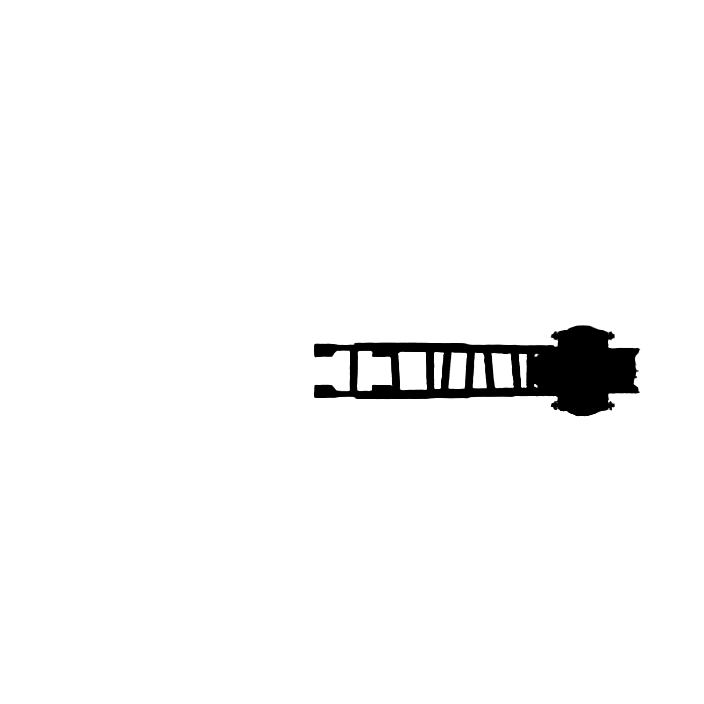
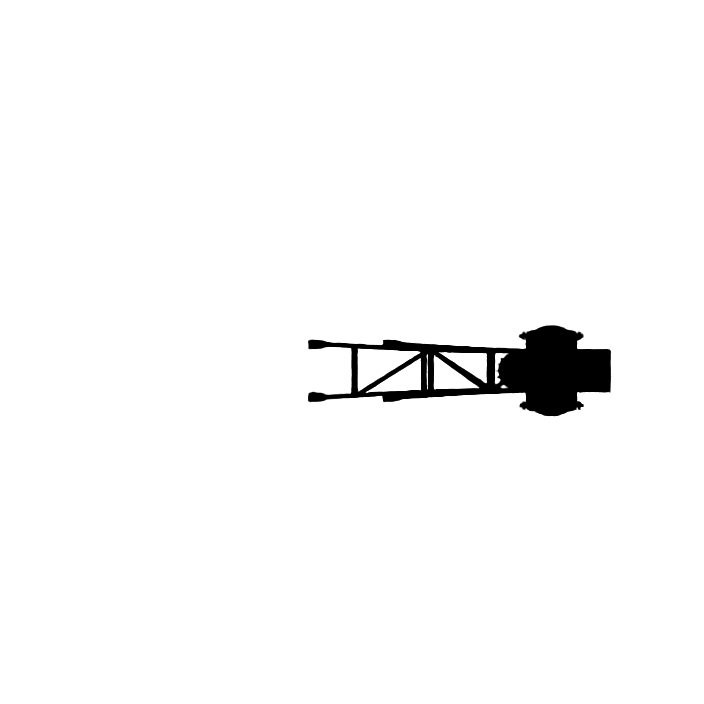
Import new batch

Changed region(s): [[0.4375, 0.4375, 0.9062, 0.5938]]

diff --git a/mods_2.0/089_pipe-pillars/import_render.php b/mods_2.0/089_pipe-pillars/import_render.php
@@ -9,10 +9,10 @@ $Shadow = "{$Render}/Shadow";
 $pipe_pillar = __DIR__ . '/graphics/entity/pipe-pillar';
 
 $mapping = [
-  '0000' => 'pipe-pillar',
-  '0001' => 'pipe-pillar-pipe-connection',
-  '0002' => 'pipe-pillar-bottom-pipe-left',
-  '0003' => 'pipe-pillar-bottom-pipe-right',
+  '0000' => 'pipe-pillar-pipe-connection',
+  '0001' => 'pipe-pillar',
+  '0002' => 'pipe-pillar-occluder-bottom',
+  '0003' => 'pipe-pillar-occluder-top',
   '0004' => 'pipe-pillar-elevated-vertical-bottom',
   '0005' => 'pipe-pillar-elevated-horizontal-left',
   '0006' => 'pipe-pillar-elevated-vertical-top',
@@ -20,7 +20,7 @@ $mapping = [
   '0008' => 'pipe-pillar-elevated-vertical-center',
   '0009' => 'pipe-pillar-elevated-horizontal-center',
   '0010' => 'pipe-pillar-pipe-connection-only',
-  '0011' => 'pipe-pillar-occluder-tip',
+  // '0011' => 'pipe-pillar-occluder-tip',
   '0012' => 'pipe-pillar-elevated-horizontal-single',
   '0013' => 'pipe-pillar-elevated-vertical-single',
 ];
